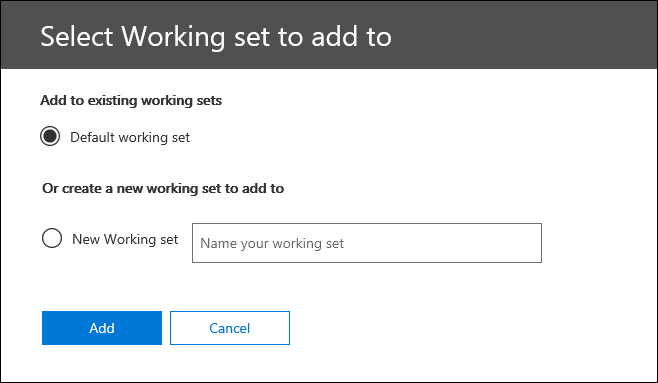
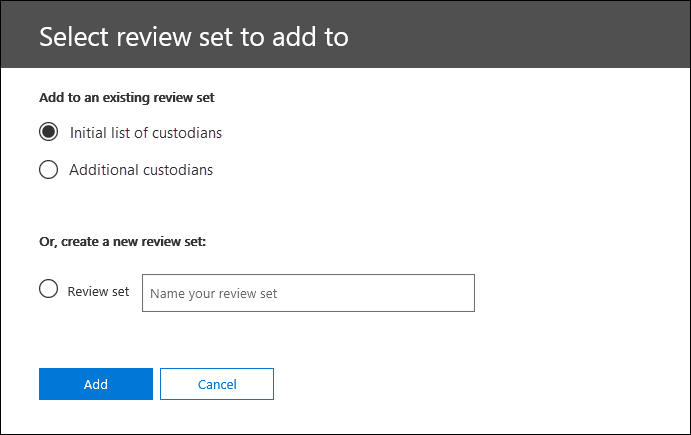
commit translated contents

diff --git a/SecurityCompliance/compliance20/add-data-to-review-set.md b/SecurityCompliance/compliance20/add-data-to-review-set.md
@@ -14,18 +14,20 @@ search.appverid:
 - MET150
 ms.assetid: ''
 description: ''
-ms.openlocfilehash: 4de390972672509422e055cd3fd6a9f65d54a7ba
-ms.sourcegitcommit: 9d67cb52544321a430343d39eb336112c1a11d35
+ms.openlocfilehash: fac8ab829107befaa1a3f8b3afe1cec8d3468f1b
+ms.sourcegitcommit: bac1b5be5db381e6f8d8f652cff1f8ef4d7f6330
 ms.translationtype: MT
 ms.contentlocale: pt-BR
-ms.lasthandoff: 05/17/2019
-ms.locfileid: "34155233"
+ms.lasthandoff: 06/26/2019
+ms.locfileid: "35233318"
 ---
 # <a name="add-search-results-to-a-review-set"></a>Adicionar resultados de pesquisa a um conjunto de revisão
 
 Quando estiver satisfeito com os resultados de uma pesquisa e estiver pronto para revisar e analisar os resultados da pesquisa, você poderá adicioná-los a uma análise definida no caso. Copiar os dados originais para o conjunto de revisão também facilita o processo de revisão e análise fornecendo ferramentas avançadas de análise, como detecção de temas, detecção de duplicidade próxima e identificação de thread de email. Também é possível adicionar dados de fontes de dados que não sejam do Office 365 a um conjunto de revisão para que você possa revisar os dados além dos dados coletados do Office 365.
 
-Quando você adiciona os resultados de uma pesquisa a um conjunto de revisão (os conjuntos de revisão estão localizados na guia **conjuntos de revisão** do caso), ocorrem as duas ações a seguir:
+Quando você adiciona os resultados de uma pesquisa a um conjunto de revisão (os conjuntos de revisão estão na guia **conjuntos de revisão** do caso), ocorrem as seguintes coisas:
+
+- A pesquisa é executada novamente. Isso significa que os resultados de pesquisa reais copiados para o conjunto de revisão podem ser diferentes dos resultados estimados que foram retornados quando a pesquisa foi executada pela última vez.
 
 - Todos os itens nos resultados da pesquisa são copiados da fonte de dados original nos serviços do Live Office 365 e copiados para um local seguro de armazenamento do Azure na nuvem da Microsoft.
 
@@ -35,11 +37,11 @@ Para adicionar dados a um conjunto de revisão, clique em uma pesquisa na guia *
 
 ![Adicionando dados a um conjunto de revisão](../media/c1b4fc00-7a15-4587-b9b0-ce594bb02e4d.png)
 
-Observe que você pode adicionar a um conjunto de revisão existente ou criar um novo conjunto de revisão.  Se estiver adicionando a um novo conjunto de revisão, especifique o nome e clique em **Adicionar**.
+Você pode adicionar a um conjunto de revisão existente ou criar um novo conjunto de revisão.  Se estiver adicionando a um novo conjunto de revisão, especifique o nome e clique em **Adicionar**.
 
 ![Selecione um conjunto de revisão](../media/e8c6ab51-da8d-4c39-9b21-26bfdf453fb9.png)
 
-A adição de dados a um conjunto de revisão é um processo de execução demorada. Esse processo inclui a coleta de itens das fontes de dados originais no Office 365 (por exemplo, de caixas de correio e sites), copiando-os para o local de armazenamento do Azure (esse processo de cópia também é chamado de *inclusão*) e, em seguida, indexando novamente os itens. Você pode acompanhar o progresso na guia **trabalhos** ou na guia **pesquisas** monitorando o status na coluna **Adicionar dados para revisão** . Depois que o processamento do conjunto de revisão estiver concluído, clique na guia revisar **conjuntos** no caso e, em seguida, clique no conjunto de revisão para iniciar a filtragem do processo, a revisão, a marcação e a exportação de dados no conjunto de revisão.
+A adição de dados a um conjunto de revisão é um processo de execução demorada. Esse processo inclui a coleta de itens das fontes de dados originais no Office 365 (por exemplo, de caixas de correio e sites), copiando-os para o local de armazenamento do Azure (esse processo de cópia também é chamado de *inclusão*) e, em seguida, indexando novamente os itens. Você pode acompanhar o progresso na guia **trabalhos** ou na guia **pesquisas** monitorando o status na coluna **Adicionar dados para revisão** . Depois que o processamento do conjunto de revisão estiver concluído, clique na guia revisar **conjuntos** no caso e clique no conjunto de revisão para iniciar o processo de filtragem, revisão, marcação e exportação de dados no conjunto de revisão.
 
 ## <a name="add-a-sample-to-a-review-set"></a>Adicionar um exemplo a um conjunto de revisão
 
@@ -47,8 +49,8 @@ Se você quiser validar os resultados de uma pesquisa com mais detalhes antes de
 
 Para adicionar um exemplo a um conjunto de revisão, clique em uma pesquisa na guia **pesquisas** e clique em **amostra** na página do menu suspenso. Na página **parâmetros de amostragem** , escolha uma das seguintes opções:
 
-- O **nível de confiança%** e o **intervalo de confiança%** -os itens adicionados ao conjunto de revisão serão determinados pelos parâmetros estatísticos definidos. Se você costuma usar um nível de confiança e um intervalo ao obter resultados de amostragem, especifique-os nas caixas suspensas. Caso contrário, basta usar as configurações padrão.
+- **Nível de confiança%** e **intervalo de confiança%** – os itens adicionados ao conjunto de revisão serão determinados pelos parâmetros estatísticos que você definir. Se você costuma usar um nível de confiança e um intervalo ao obter resultados de amostragem, especifique-os nas caixas suspensas. Caso contrário, use as configurações padrão.
 
-- **Amostra aleatória%** -os itens adicionados ao conjunto de revisão são baseados em uma seleção aleatória do percentual especificado do número total de itens retornados pela pesquisa.
+- **Amostra aleatória%** – os itens adicionados ao conjunto de revisão são baseados em uma seleção aleatória do percentual especificado do número total de itens retornados pela pesquisa.
 
-Após selecionar e configurar uma das opções anteriores, escolha um conjunto de revisão existente para adicionar o exemplo e clique em **Enviar**. Novamente, você pode acompanhar o progresso na guia **trabalhos** ou na guia **pesquisas** monitorando o status na coluna **Adicionar dados para revisão** .
+Após selecionar e configurar uma das opções anteriores, escolha um conjunto de revisão para adicionar o exemplo a e clique em **Enviar**. Novamente, você pode acompanhar o progresso na guia **trabalhos** ou na guia **pesquisas** monitorando o status na coluna **Adicionar dados para revisão** .

diff --git a/SecurityCompliance/automated-investigation-response-office.md b/SecurityCompliance/automated-investigation-response-office.md
@@ -3,7 +3,7 @@ title: Investigação e resposta automatizadas (AIR) com o Office 365
 ms.author: deniseb
 author: denisebmsft
 manager: laurawi
-ms.date: 03/25/2019
+ms.date: 06/25/2019
 audience: ITPro
 ms.topic: article
 ms.service: O365-seccomp
@@ -13,12 +13,12 @@ search.appverid:
 - MOE150
 ms.collection: M365-security-compliance
 description: Saiba mais sobre os recursos de investigação e resposta automatizados do Office 365 proteção avançada contra ameaças.
-ms.openlocfilehash: bb992a4ebd9bf10f2659929bab4357117ea1c254
-ms.sourcegitcommit: b9d8a43cb3afcdc8820bc9470c5707eff8fc6616
+ms.openlocfilehash: 4d611d9549ed3f5cda06274ea9209cdc6350ba7b
+ms.sourcegitcommit: bac1b5be5db381e6f8d8f652cff1f8ef4d7f6330
 ms.translationtype: MT
 ms.contentlocale: pt-BR
-ms.lasthandoff: 06/11/2019
-ms.locfileid: "34852615"
+ms.lasthandoff: 06/26/2019
+ms.locfileid: "35233328"
 ---
 # <a name="automated-investigation-and-response-air-with-office-365"></a>Investigação e resposta automatizadas (AIR) com o Office 365
 
@@ -37,7 +37,8 @@ Na versão inicial do AIR em abril de 2019, os alertas gerados a partir das segu
 3. Mensagens de email contendo malware removidos após a entrega *
 4. Mensagens de email que contêm URLs de phishing removidos após a entrega *
 
-***Observação**: esses alertas receberam uma severidade "informativa" nas respectivas políticas de alerta dentro do centro de conformidade & segurança com notificações por email desativadas. Eles podem ser ativados por meio da configuração da política de alerta.
+> [!NOTE]
+> Esses alertas receberam uma severidade "informativa" nas respectivas políticas de alerta dentro do centro de conformidade & segurança com notificações por email desativadas. Eles podem ser ativados por meio da configuração da política de alerta.
 
 Para exibir alertas, no centro de conformidade & segurança, escolha **alertas** > **exibir alertas**. Selecione um alerta para exibir seus detalhes e, em seguida, use o link **Exibir investigação** para ir para a [investigação](#investigation-graph)correspondente. Observe que os alertas informativos ficam ocultos no modo de exibição de alerta por padrão. Para vê-los, você precisa alterar a filtragem de alerta para incluir alertas informativos.
 
@@ -56,18 +57,14 @@ Os guias de segurança que você receberá com o AIR são projetados para lidar 
 
 Como parte do AIR, os guias de segurança são implantados em fases
 
-- **Fase 1 (abril de 2019)**: os guias estratégicos incluem recomendações para ações que os administradores de segurança revisam e aprovam. 
+- **Fase 1 (abril de 2019)**: os guias estratégicos incluem recomendações para ações que os administradores de segurança revisam e aprovam. A fase 1 incluirá os seguintes guias estratégicos:
+    - Mensagem de phishing relatada pelo usuário
+    - URL clique em alterar veredicto 
+    - Malware detectado após a entrega (malware ZAP)
+    - O phishing detectou o post-Delivery ZAP (Phish ZAP)
+    - Investigações de email manuais (usando o explorador de ameaças)
 
-- **Fase 2 (post-junho de 2019)**: melhorias de guias estratégicos, além disso, os administradores de segurança terão a opção de configurar os guias de segurança para realizar algumas ações automaticamente sem a interação administrativa.
-
-A fase 1 incluirá os seguintes guias estratégicos:
-- Mensagem de phishing relatada pelo usuário
-- URL clique em alterar veredicto 
-- Malware detectado após a entrega (malware ZAP)
-- O phishing detectou o post-Delivery ZAP (Phish ZAP)
-- Investigações de email manuais (usando o explorador de ameaças)
-
-Vários outros guias estratégicos estão planejados para a fase 2.
+- **Fase 2 (segunda metade de 2019)**: vários guias estratégicos e melhorias de guias estratégicos, além da opção para que os administradores de segurança configurem os guias de segurança para realizar algumas ações automaticamente sem interação administrativa. 
 
 ### <a name="playbooks-include-investigation-and-recommendations"></a>Os guias estratégicos incluem investigação e recomendações
 
